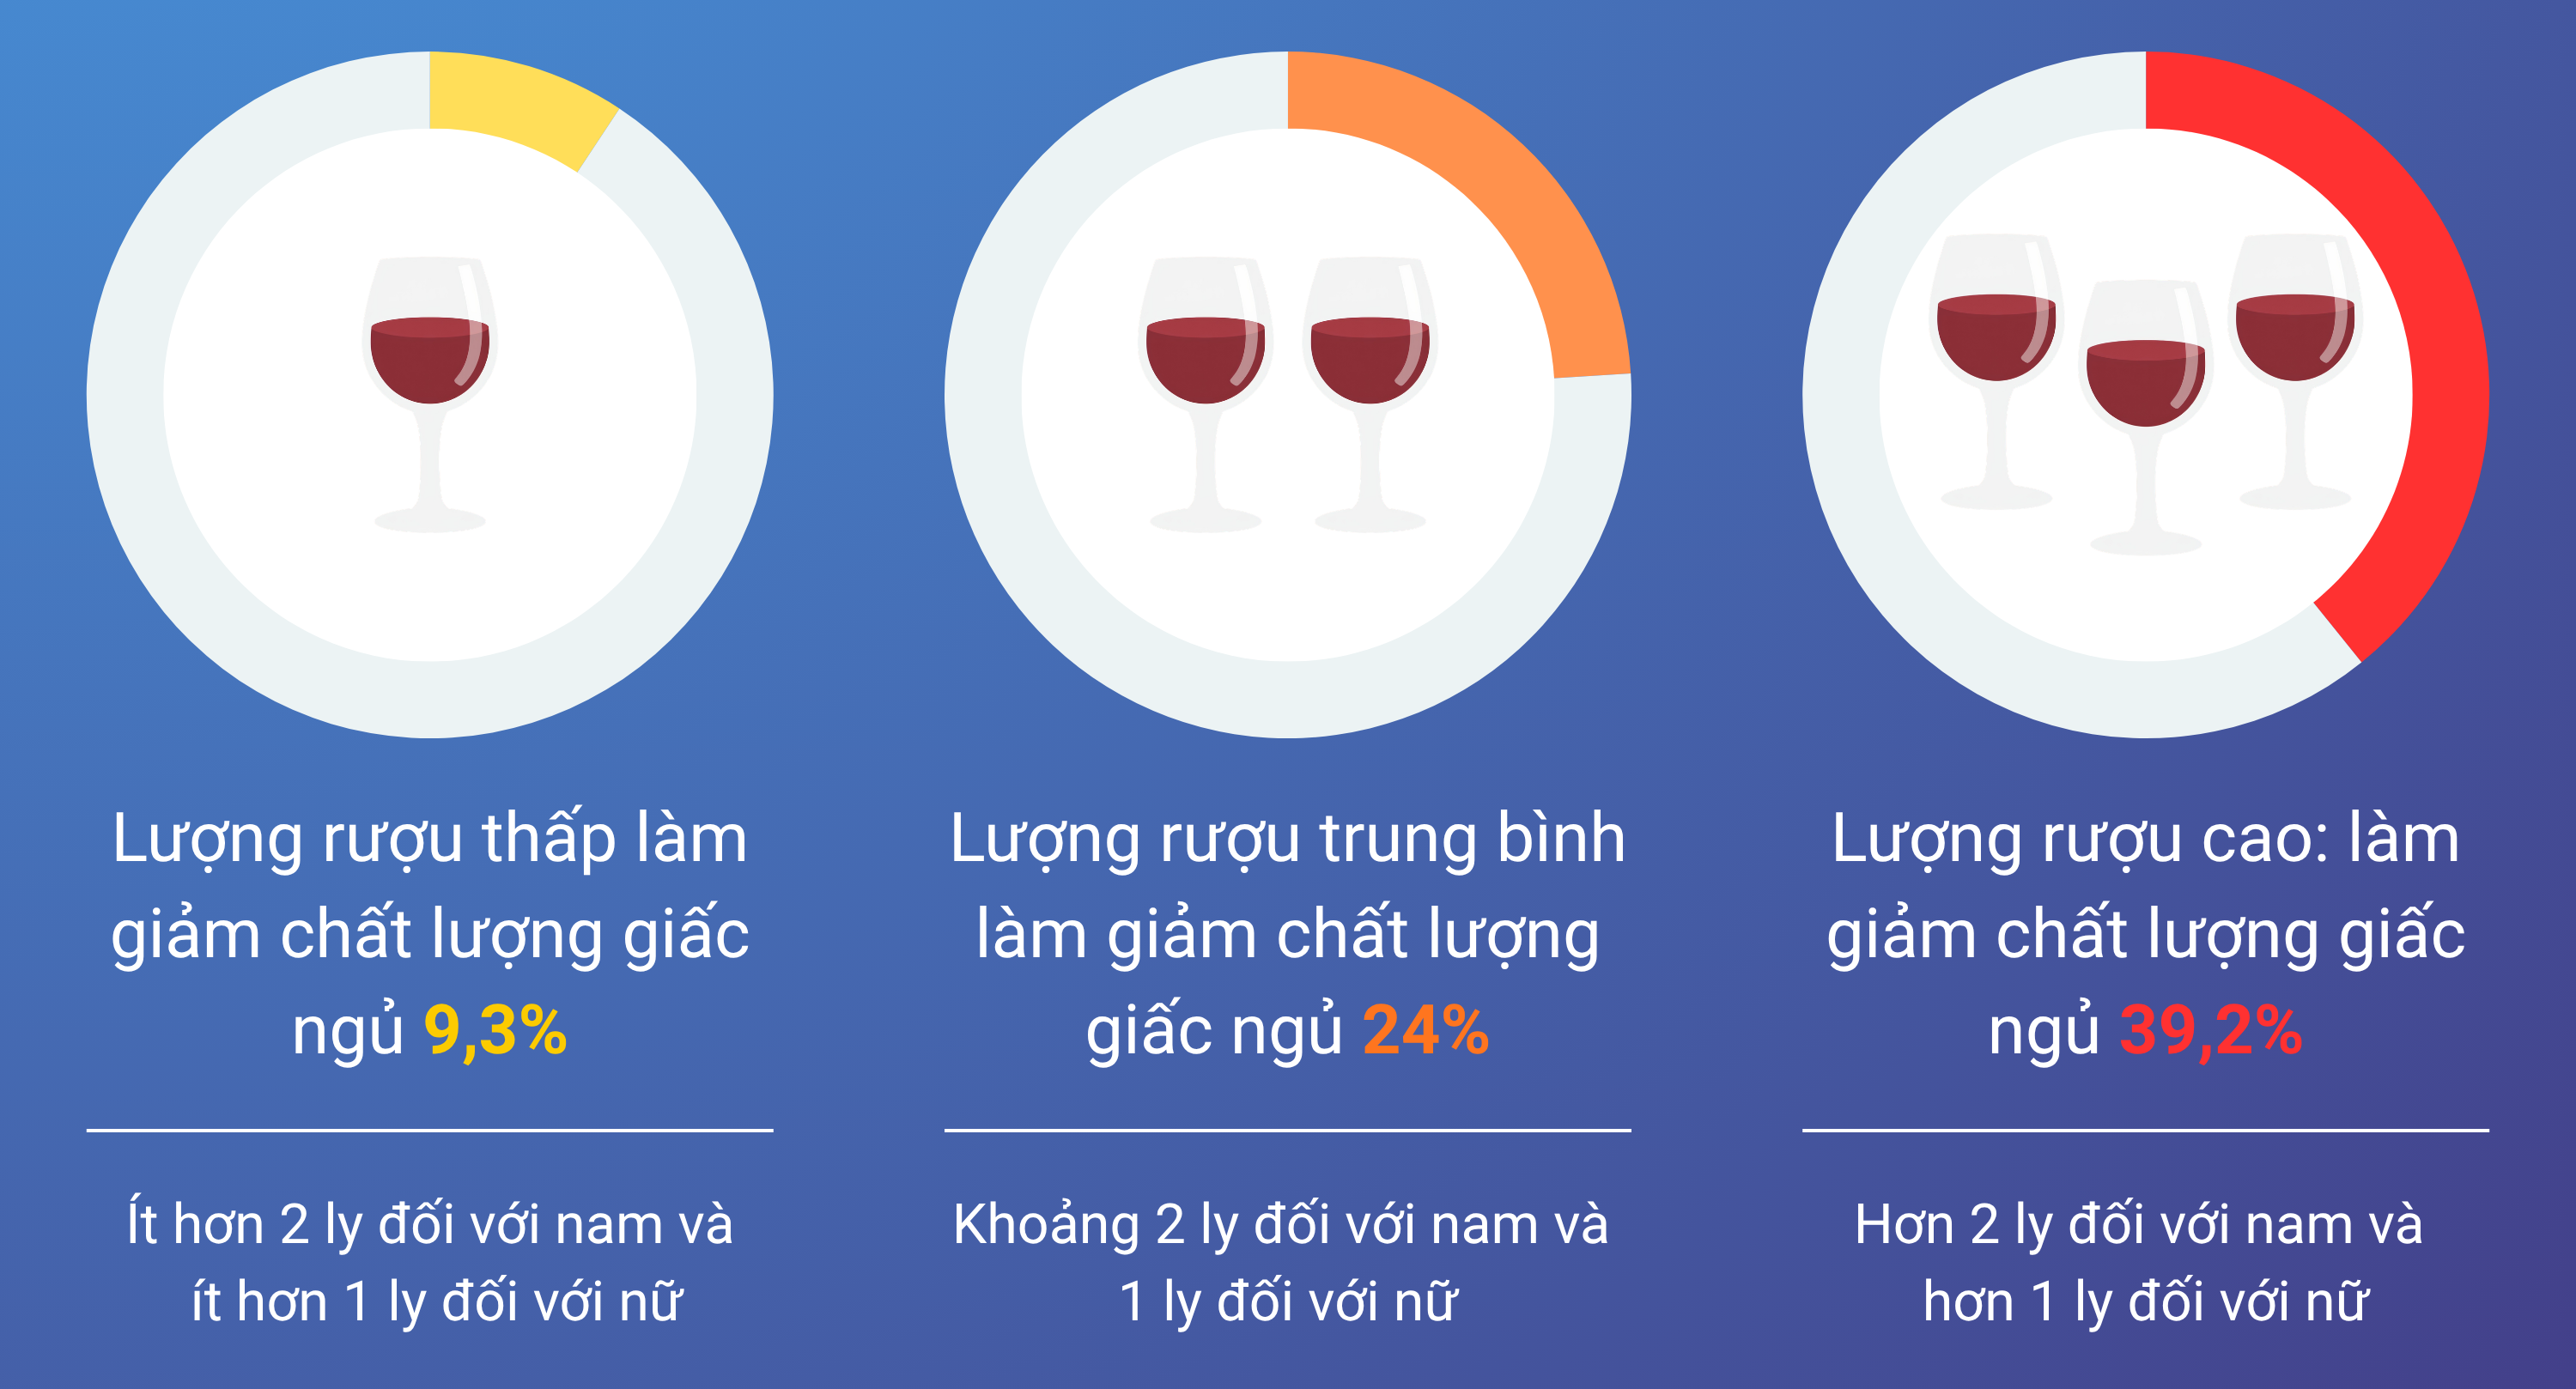
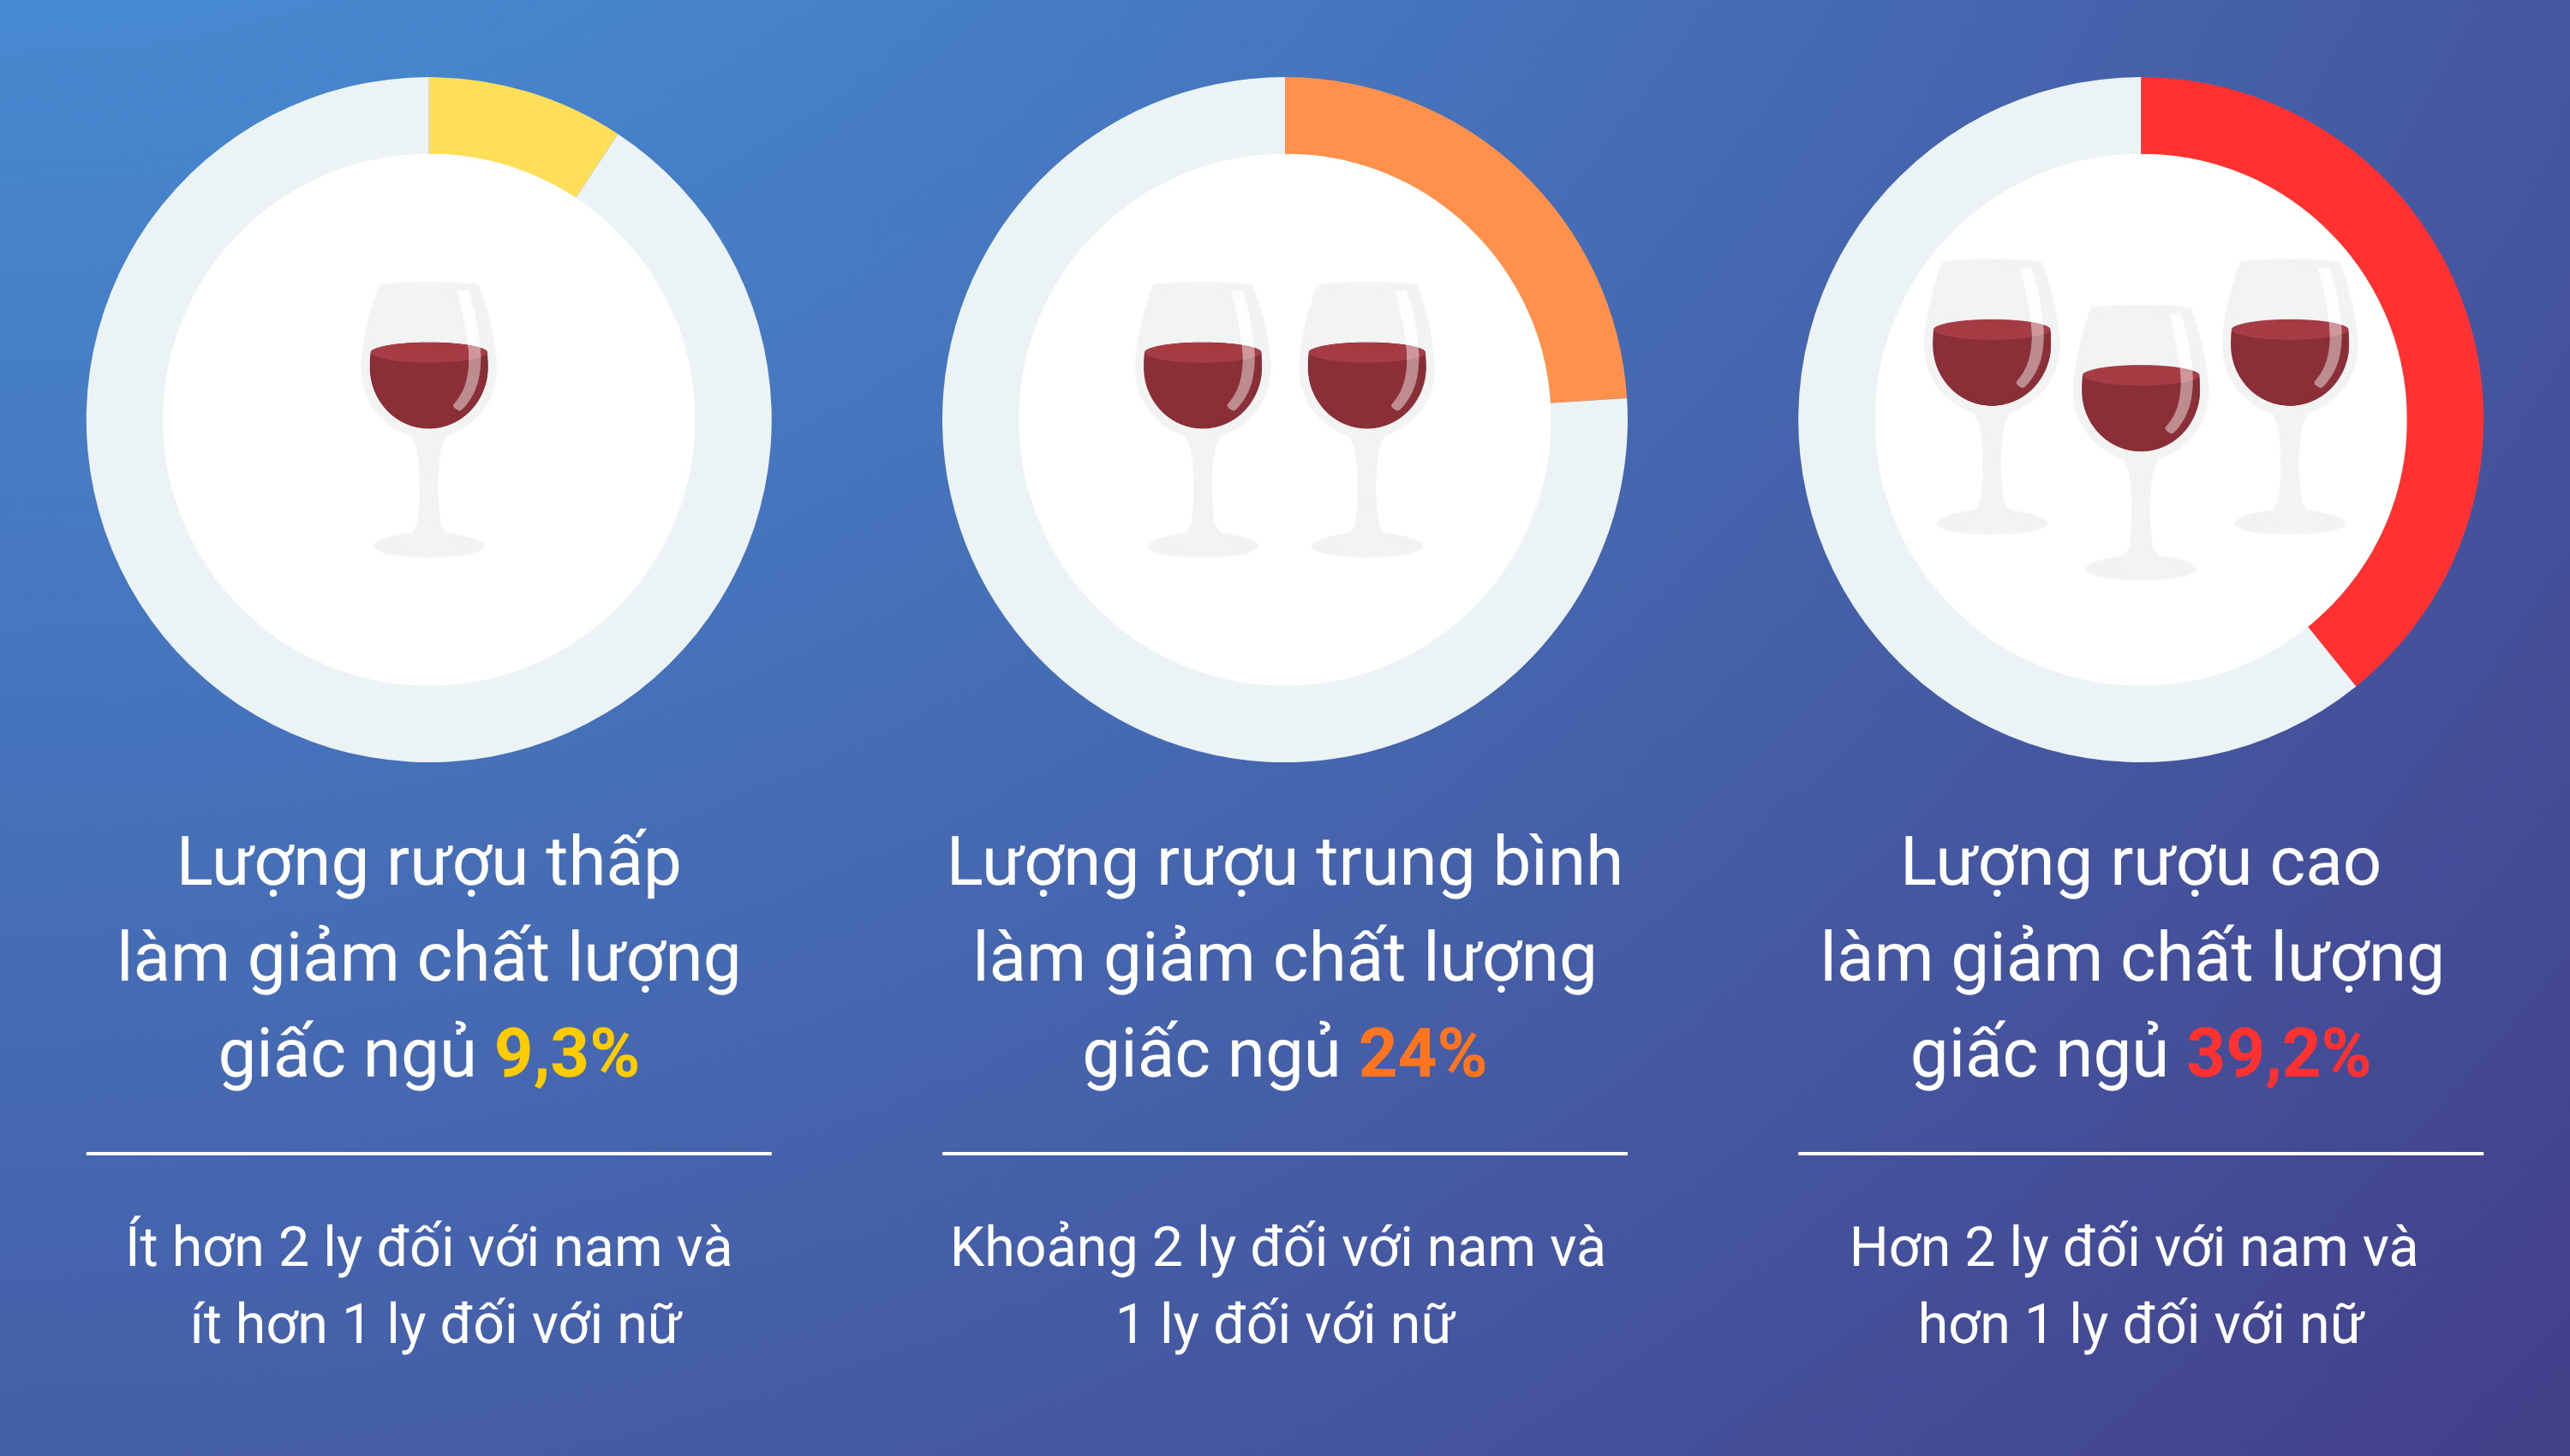
Update NhungThuPhaHoaiGiacNgu

diff --git a/docs/NhungThuPhaHoaiGiacNgu/ThuocNgu.md b/docs/NhungThuPhaHoaiGiacNgu/ThuocNgu.md
@@ -1,0 +1,134 @@
+---
+title: Thuốc ngủ
+parent: Những thứ phá hoại giấc ngủ
+nav_order: 12
+---
+
+# Thuốc ngủ
+
+<details markdown="block">
+  <summary>Mục lục</summary>
+  {: .text-delta }
+1. TOC
+{:toc}
+</details>
+
+---
+
+---
+
+## Thuốc ngủ không tạo ra giấc ngủ tự nhiên
+
+**Không có loại thuốc ngủ nào hiện nay tạo ra được giấc ngủ tự nhiên**. Thay vào đó, chúng thuộc nhóm **thuốc an thần (sedatives)**, hoạt động bằng cách làm tê liệt các vùng vỏ não, tương tự như cơ chế của rượu. Nếu so sánh biểu đồ sóng não, giấc ngủ do thuốc ngủ tạo ra sẽ **thiếu hụt các sóng não NREM lớn và sâu**.
+
+---
+
+## Các tác dụng phụ và "Vòng xoáy ác tính"
+
+Sử dụng thuốc ngủ dẫn đến nhiều hệ lụy không mong muốn:
+- **Tác dụng phụ ban ngày:** Gây ra tình trạng lờ đờ, hay quên vào ngày hôm sau, phản ứng chậm và thậm chí là thực hiện các hành động trong đêm mà không có ý thức (như mộng du).
+- **Vòng xoáy cà phê - thuốc ngủ:** Tình trạng lờ đờ ban ngày khiến người dùng tiêu thụ nhiều caffeine hơn để tỉnh táo. Chính lượng caffeine này lại gây khó ngủ vào ban đêm, dẫn đến việc phải tăng liều thuốc ngủ, tạo thành một chu kỳ suy nhược kéo dài.
+
+<figure>
+  <img
+    src="{{ site.baseurl }}\assets\images\positive_feedback_loop_sleeping_pills.png"
+  />
+  <figcaption>"Vòng phản hồi tích cực" thuốc ngủ - cà phê.</figcaption>
+</figure>
+
+---
+
+## Chứng mất ngủ dội ngược (Rebound Insomnia)
+
+Khi một người ngừng sử dụng thuốc ngủ, họ thường phải đối mặt với **chứng mất ngủ dội ngược**, với chất lượng giấc ngủ thậm chí còn tệ hơn cả trước khi bắt đầu dùng thuốc. Điều này xảy ra do não bộ đã thay đổi các thụ thể thần kinh để thích nghi với thuốc ngủ (hiện tượng **lờn thuốc**), dẫn đến sự phụ thuộc về mặt sinh lý.
+
+Đọc thêm:
+1. [How to Handle Rebound Insomnia After Taking Sleeping Medication - The Sleep Reset (Cách xử lý chứng mất ngủ tái phát sau khi dùng thuốc ngủ)](https://www.thesleepreset.com/blog/rebound-insomnia)
+
+
+---
+
+## Lợi ích thực tế thấp hơn so với cảm nhận
+
+Một nghiên cứu phân tích gộp trên 4.500 cá nhân cho thấy một sự thật mâu thuẫn:
+- Người dùng **cảm thấy** mình ngủ nhanh hơn và sâu hơn, nhưng các phép đo khách quan bằng điện não đồ lại cho thấy **không có sự khác biệt đáng kể** về chất lượng giấc ngủ so với giả dược.
+- Thuốc ngủ thực tế chỉ giúp con người đi vào giấc ngủ nhanh hơn từ 10 đến 30 phút, một con số mà các hội đồng y khoa đánh giá là **"ít có tầm quan trọng về mặt lâm sàng"**.
+
+---
+
+## Thuốc ngủ là "Kẻ xóa mờ" ký ức
+
+Thay vì giúp củng cố trí nhớ như giấc ngủ tự nhiên, thuốc ngủ (điển hình là Ambien) có thể gây tác dụng ngược như một "kẻ xóa mờ" ký ức. Thí nghiệm trên động vật cho thấy giấc ngủ do Ambien gây ra **làm yếu hoặc cắt đứt tới 50% các kết nối thần kinh** được hình thành trong quá trình học tập trước đó. Do đó, người sử dụng thuốc ngủ có nguy cơ thức dậy với ít ký ức về ngày hôm trước hơn so với việc ngủ tự nhiên. Điều này gây lo ngại đặc biệt cho trẻ em và thanh thiếu niên, những đối tượng có não bộ vẫn đang trong quá trình hoàn thiện các kết nối thần kinh cho đến tuổi 20. Việc sử dụng thuốc ngủ trong giai đoạn này có thể gây cản trở nghiêm trọng đến quá trình phát triển tự nhiên của não bộ.
+
+<figure>
+  <img
+    src="{{ site.baseurl }}\assets\images\ambien.jpg"
+  />
+  <figcaption>Thuốc ngủ Ambien.</figcaption>
+</figure>
+
+
+Đọc thêm:
+1. [Thuốc Ambien: Công dụng, chỉ định và lưu ý khi dùng - Vinmec](https://www.vinmec.com/vie/bai-viet/thuoc-ambien-cong-dung-chi-dinh-va-luu-y-khi-dung-vi)
+
+---
+
+## Mối liên hệ đáng báo động với nguy cơ tử vong
+
+Nghiên cứu của Tiến sĩ [Daniel Kripke](https://profiles.ucsd.edu/daniel.kripke) chỉ ra rằng những người sử dụng thuốc ngủ có **nguy cơ tử vong cao hơn đáng kể** so với những người không sử dụng. Một phân tích trên hơn 10.000 bệnh nhân sử dụng thuốc ngủ (chủ yếu là Ambien) cho thấy họ có nguy cơ tử vong cao gấp **4,6 lần** trong vòng 2,5 năm so với nhóm đối chứng. Ngay cả những người thỉnh thoảng mới dùng (khoảng 18 viên mỗi năm) vẫn có nguy cơ tử vong cao gấp 3,6 lần. Nguy cơ này tăng dần theo liều lượng, với những người dùng thường xuyên (trên 132 viên mỗi năm) có nguy cơ tử vong cao gấp 5,3 lần.
+
+<figure>
+  <img
+    src="{{ site.baseurl }}\assets\images\bmjopen-2012-January-2-1--F1.large.jpg"
+  />
+  <figcaption>Nguy cơ liên quan đến việc dùng thuốc ngủ (hypnotics) xuất hiện ở mọi nhóm tuổi. Mặc dù nguy cơ tử vong ở nhóm dùng và không dùng thuốc ngủ đều gia tăng  theo tuổi — nhưng tỷ lệ nguy cơ tử vong của người dùng thuốc ngủ so với người không dùng lại cao hơn ở nhóm 18–55 tuổi so với các nhóm lớn tuổi hơn.<br>
+  Nguồn: <a href="https://bmjopen.bmj.com/content/2/1/e000850" target="_blank">Hypnotics' association with mortality or cancer: a matched cohort study - Daniel Kripke</a> 
+  </figcaption>
+</figure>
+
+<figure>
+  <img
+    src="{{ site.baseurl }}\assets\images\Risk_of_death_from_Sleeping_Pills.png"
+  />
+  <figcaption>Nguy cơ tử vong do thuốc ngủ.<br>
+  Nguồn: Why we sleep - Matthew Walker
+  </figcaption>
+</figure>
+
+---
+
+## Các nguyên nhân dẫn đến cái chết
+
+Có nhiều nguyên nhân khiến tỉ lệ tử vong tăng cao ở người dùng thuốc ngủ, bao gồm:
+- **Nhiễm trùng:** Thuốc ngủ có thể không cung cấp các lợi ích phục hồi miễn dịch như giấc ngủ tự nhiên, dẫn đến tỉ lệ nhiễm trùng cao hơn, đặc biệt nguy hiểm đối với người cao tuổi.
+- **Tai nạn giao thông:** Tình trạng lờ đờ, "say thuốc" vào sáng hôm sau khiến người dùng dễ gặp tai nạn xe cộ chết người.
+- **Ngã và chấn thương:** Người già dễ bị ngã vào ban đêm do tác dụng phụ của thuốc, dẫn đến các biến chứng nghiêm trọng.
+- **Bệnh tim mạch:** Sử dụng thuốc ngủ thường xuyên cũng liên quan đến tỉ lệ mắc bệnh tim và đột quỵ cao hơn.
+
+---
+
+## Nguy cơ gây ung thư
+
+Dữ liệu của Tiến sĩ [Daniel Kripke](https://profiles.ucsd.edu/daniel.kripke) cũng chỉ ra mối liên hệ mật thiết giữa thuốc ngủ và bệnh ung thư. Những người dùng thuốc ngủ có khả năng **phát triển ung thư cao hơn từ 30% đến 40%** trong khoảng thời gian 2,5 năm của nghiên cứu. Cụ thể, các loại thuốc cũ hơn như Restoril liên quan đến việc tăng 60% nguy cơ ung thư, trong khi Ambien liều cao làm tăng nguy cơ này lên khoảng 30%. Các thí nghiệm trên động vật do chính các công ty dược thực hiện cũng cho thấy tỉ lệ ung thư tăng vọt ở chuột khi sử dụng các loại thuốc ngủ phổ biến này.
+
+
+
+<figure>
+  <img
+    src="{{ site.baseurl }}\assets\images\restoril.jpg"
+  />
+  <figcaption>Thuốc ngủ Restoril.</figcaption>
+</figure>
+
+Đọc thêm:
+1. [Tác dụng của thuốc Restoril: Điều trị chứng mất ngủ, ngủ không sâu giấc](https://www.vinmec.com/vie/bai-viet/tac-dung-cua-thuoc-restoril-dieu-tri-chung-mat-ngu-ngu-khong-sau-giac-vi)
+
+
+---
+
+## Vấn đề lợi nhuận và sự minh bạch
+
+Mặc dù có những bằng chứng về tác hại, các công ty dược phẩm vẫn thu lợi nhuận khổng lồ, ví dụ như Ambien đã mang về **4 tỷ đô la doanh số** chỉ trong vòng 24 tháng. Giáo sư Matthew Walker lập luận rằng cho đến nay **không có nghiên cứu nào chứng minh thuốc ngủ giúp cứu mạng con người**; trái lại, chúng gây ra những rủi ro sức khỏe không đáng có. Ông kêu gọi sự minh bạch hơn trong giáo dục y tế để bệnh nhân có thể nhận thức đầy đủ các rủi ro và đưa ra lựa chọn sáng suốt trước khi quyết định sử dụng thuốc ngủ.
+
+Đọc thêm:
+1. [Sleeping Pills (Benzodiazepines, Z-drugs, DORAs): What You Need to Know](https://www.benzoinfo.com/sleeping-pills/)

diff --git a/docs/NhungThuPhaHoaiGiacNgu/NhietDo.md b/docs/NhungThuPhaHoaiGiacNgu/NhietDo.md
@@ -1,0 +1,88 @@
+---
+title: Nhiệt độ
+parent: Những thứ phá hoại giấc ngủ
+nav_order: 10
+---
+
+# Nhiệt độ
+
+<details markdown="block">
+  <summary>Mục lục</summary>
+  {: .text-delta }
+1. TOC
+{:toc}
+</details>
+
+---
+
+## Điều kiện tiên quyết để bắt đầu giấc ngủ: Giảm thân nhiệt trung tâm
+
+Nhiệt độ môi trường xung quanh và nhiệt độ cơ thể là yếu tố then chốt nhưng thường bị xem nhẹ trong việc quyết định chất lượng giấc ngủ. Để có thể đi vào giấc ngủ một cách thuận lợi, thân nhiệt trung tâm của cơ thể cần phải **giảm khoảng 1 độ C**. Đây là lý do tại sao chúng ta thường dễ ngủ hơn trong một căn phòng hơi lạnh hơn là một căn phòng quá nóng.
+
+<figure>
+  <img
+    src="{{ site.baseurl }}\assets\images\Core_body_temperature_and_melatonin.png"
+  />
+  <figcaption>Mối quan hệ giữa nhịp sinh học của thân nhiệt trung tâm (đường liền nét) và melatonin (đường chấm nét) ở người có giấc ngủ ngon, thường ngủ từ 23 giờ đến 7 giờ.<br>
+  Nguồn: <a href="https://www.thesleepscientist.com/post/too-hot-to-sleep-night-sweats-menopause-and-heatwaves" target="_blank">Too hot to sleep? Night sweats, menopause and heatwaves - The Sleep Scientist (Trời quá nóng không ngủ được? Đổ mồ hôi ban đêm, mãn kinh và sóng nhiệt) - </a> 
+  </figcaption>
+</figure>
+
+<strong>Thân nhiệt trung tâm (Core body temperature)</strong> là nhiệt độ của các vùng nằm sâu bên trong cơ thể, <strong>phản ánh trực tiếp nhiệt độ của các cơ quan nội tạng và máu</strong>. Nó ảnh hưởng trực tiếp đến tốc độ các phản ứng sinh học, từ chuyển hoá đến hoạt động của enzyme.
+
+Đồng thời, thân nhiệt trung tâm cũng là <strong>cơ sở của cơ chế điều hoà nhiệt</strong>, giúp cơ thể duy trì trạng thái ổn định dù nhiệt độ môi trường bên ngoài thay đổi.
+
+Khác với nhiệt độ da dễ bị tác động bởi môi trường, thân nhiệt trung tâm tương đối ổn định và chỉ dao động trong một khoảng hẹp. Nó thường được <strong>đo tại trực tràng</strong>, là vị trí cho kết quả ổn định và chính xác nhất. Ở con người, trong điều kiện bình thường, thân nhiệt đo tại đây thường nằm trong <strong>khoảng 36,3 – 37,1°C</strong>.
+<figure>
+ <img
+   src="{{ site.baseurl }}\assets\images\COS-cosinuss-bodytemperature-core_shell-EN-XXXX-V01.jpg"
+   width="75%"
+ />
+ <figcaption>Trường nhiệt độ của cơ thể người. Phần lõi cơ thể có nhiệt độ gần như không đổi, trong khi nhiệt độ của lớp da chịu ảnh hưởng bởi các yếu tố bên ngoài và bên trong.<br>Nguồn: <a href="https://www.cosinuss.com/en/measured-data/vital-signs/body-temperature/" target="_blank">Body temperature  - Cosinuss</a></figcaption>
+</figure>
+
+---
+
+## Cơ chế điều khiển của não bộ
+
+**Vùng dưới đồi (hypothalamus)** trong não chứa các tế bào nhạy cảm với nhiệt độ. Khi thân nhiệt trung tâm giảm xuống vào buổi tối, các tế bào này sẽ gửi tín hiệu đến **nhân trên chéo thị giác (SCN)**, thông báo cho não bộ kích hoạt sự gia tăng **melatonin**. Như vậy, sự giải phóng melatonin không chỉ do ánh sáng giảm đi chỉ dẫn mà còn do sự sụt giảm nhiệt độ cơ thể phối hợp nhịp nhàng với chu kỳ mặt trời lặn.
+
+---
+
+## Đôi bàn tay, bàn chân và đầu: Những bộ tản nhiệt của cơ thể
+
+Cơ thể chúng ta chủ động tản nhiệt thông qua bề mặt da, đặc biệt là ở ba khu vực: **tay, chân và đầu**. Những vùng này chứa mạng lưới mạch máu phong phú (gọi là các mao mạch nối động mạch - tĩnh mạch, *arteriovenous anastomoses - AVA*) nằm sát bề mặt da, hoạt động như những thiết bị tản nhiệt hiệu quả. 
+- Việc làm ấm tay và chân sẽ khiến mạch máu giãn ra, giúp dẫn nhiệt từ bên trong cơ thể ra bề mặt da và thoát ra ngoài, từ đó giảm thân nhiệt trung tâm.
+- Hiện tượng trẻ em thò chân tay ra ngoài chăn khi ngủ thực chất là một phản ứng sinh học tự động để làm mát cơ thể.
+
+<figure>
+  <img
+    src="{{ site.baseurl }}\assets\images\anastomosis_arteriovenosa_simplex.jpg"
+  />
+  <figcaption>Mao mạch nối động mạch - tĩnh mạch (arteriovenous anastomoses - AVA).<br>
+  Các thành phần khác: Tiểu động mạch (Arteriole), Tiểu tĩnh mạch (Venule), Mạng mao mạch (Capillary bed).<br>
+  Nguồn: <a href="https://medical-dictionary.thefreedictionary.com/_/viewer.aspx?path=dorland&name=anastomosis_arteriovenosa-simplex.jpg" target="_blank">Arteriovenous anastomosis - TheFreeDictionary</a> 
+  </figcaption>
+</figure>
+
+---
+
+## Tác động của môi trường hiện đại
+
+Con người hiện đại đã tách biệt mình khỏi chu kỳ nhiệt độ tự nhiên thông qua các hệ thống sưởi và điều hòa nhiệt độ trung tâm. Việc duy trì nhiệt độ phòng không đổi khiến não bộ không nhận được tín hiệu làm mát cần thiết để giải phóng melatonin đúng lúc. 
+- Nhiệt độ phòng lý tưởng cho giấc ngủ của hầu hết mọi người là khoảng **18,3 độ C**. Tuy nhiên, nhiệt độ phòng để đạt được giấc ngủ ngon của mỗi người sẽ tuỳ thuộc vào sinh lý, giới tính và độ tuổi.
+- Đặt nhiệt độ phòng quá cao thường là nguyên nhân gây ra chứng khó ngủ hoặc mất ngủ do cơ thể không thể tản nhiệt hiệu quả.
+
+---
+
+## Thí nghiệm về "Bộ đồ ngủ nhiệt"
+
+Các nhà khoa học đã thực hiện thí nghiệm sử dụng một bộ đồ có thể điều chỉnh nhiệt độ bề mặt da. Kết quả cho thấy:
+- Bằng cách làm ấm nhẹ đôi bàn tay và bàn chân để kéo nhiệt ra khỏi cơ thể, những người trẻ khỏe mạnh có thể ngủ nhanh hơn **20%**.
+- Ở những người lớn tuổi và bệnh nhân mất ngủ, hiệu quả còn ấn tượng hơn khi họ ngủ nhanh hơn **25%** và giảm đáng kể khả năng bị thức giấc vào nửa đêm (từ 58% xuống còn 4%).
+
+---
+
+## Nghịch lý của việc tắm nước nóng trước khi ngủ
+
+Nhiều người cảm thấy tắm nước nóng giúp dễ ngủ, nhưng lý do thực tế hoàn toàn ngược lại với suy nghĩ thông thường. Bạn dễ ngủ hơn không phải vì cơ thể được sưởi ấm, mà vì nước nóng đưa máu lên bề mặt da, tạo ra vẻ ngoài đỏ bừng. Khi bạn bước ra khỏi bồn tắm, các mạch máu này sẽ tản nhiệt ra môi trường cực nhanh, khiến **thân nhiệt trung tâm sụt giảm mạnh**. Chính sự sụt giảm nhiệt độ đột ngột này là tín hiệu báo cho não bộ rằng đã đến giờ đi ngủ, đồng thời giúp tăng lượng ngủ NREM sâu thêm **10-15%**.

diff --git a/docs/NhungThuPhaHoaiGiacNgu/DongHoBaoThuc.md b/docs/NhungThuPhaHoaiGiacNgu/DongHoBaoThuc.md
@@ -1,0 +1,56 @@
+---
+title: Đồng hồ báo thức
+parent: Những thứ phá hoại giấc ngủ
+nav_order: 11
+---
+
+# Đồng hồ báo thức
+
+<details markdown="block">
+  <summary>Mục lục</summary>
+  {: .text-delta }
+1. TOC
+{:toc}
+</details>
+
+---
+
+## Lịch sử của việc cưỡng ép thức dậy
+
+Sự ra đời của kỷ nguyên công nghiệp đã mang đến một thách thức: làm thế nào để đảm bảo một lực lượng lao động khổng lồ có mặt cùng lúc tại các nhà máy. Giải pháp ban đầu là tiếng còi nhà máy - phiên bản sơ khai và ồn ào nhất của đồng hồ báo thức - nhằm buộc mọi người phải thức dậy đồng loạt. Sau này, công cụ xâm lấn này đã tiến sâu vào phòng ngủ của chúng ta dưới dạng đồng hồ báo thức hiện đại.
+
+---
+
+## Tác động sinh lý của đồng hồ báo thức
+
+**Con người là loài duy nhất cố tình chấm dứt giấc ngủ một cách nhân tạo và sớm hơn nhu cầu sinh học**. Khi bị đánh thức đột ngột bởi tiếng báo thức, cơ thể phải chịu đựng những cú sốc sinh lý tức thì:
+- **Huyết áp tăng vọt:** Một sự gia tăng đột ngột của áp lực máu trong mạch.
+- **Nhịp tim tăng tốc:** Trái tim bị ép phải đập nhanh hơn chỉ trong vài giây.
+- **Phản ứng "Chiến-hay-chạy":** Những triệu chứng này được gây ra bởi một đợt bộc phát năng lượng từ hệ thống thần kinh giao cảm, vốn thường chỉ dành cho các tình huống đe dọa tính mạng.
+
+---
+
+## Nguy hiểm từ nút "Tạm dừng" (Snooze)
+
+Tác giả nhấn mạnh rằng nút **"snooze"** là một mối đe dọa lớn đối với hệ tim mạch. Khi sử dụng chức năng này, bạn không chỉ chịu đựng cú sốc từ hệ thần kinh một lần mà là **lặp đi lặp lại nhiều lần** trong một khoảng thời gian ngắn. Việc thực hiện hành vi này ít nhất 5 ngày mỗi tuần trong suốt nhiều năm sẽ dẫn đến sự ngược đãi tích lũy đối với trái tim và hệ thần kinh.
+
+
+<figure>
+  <img
+    src="{{ site.baseurl }}\assets\images\alarm_phone.jpg"
+  />
+</figure>
+
+---
+
+## Lời khuyên cho giấc ngủ lành mạnh
+
+Bạn nên thực hiện theo các khuyến nghị sau nhằm bảo vệ sức khỏe tim mạch:
+- **Duy trì lịch trình nhất quán:** Đi ngủ và thức dậy vào cùng một thời điểm mỗi ngày là cách hiệu quả nhất để cải thiện giấc ngủ, đặc biệt là với người bị mất ngủ.
+- **Loại bỏ chức năng "snooze":** Nếu buộc phải dùng báo thức, hãy tập thói quen thức dậy ngay lập tức từ lần đầu tiên để tránh gây sốc liên tục cho trái tim.
+
+---
+
+## Phản ánh về trạng thái thiếu ngủ hiện đại
+
+Sự tồn tại của những loại đồng hồ báo thức có thiết kế "tra tấn" (như máy hủy tiền hoặc tự động chuyển tiền cho các tổ chức bạn ghét nếu không dậy) cho thấy bộ não hiện đại của chúng ta đang thiếu ngủ trầm trọng đến mức nào. Xã hội hiện đại đã biến giấc ngủ - một giải pháp hoàn hảo của tự nhiên - thành hai vấn đề: (1) thiếu ngủ vào ban đêm và (2) không thể tỉnh táo vào ban ngày.

diff --git a/docs/NhungThuPhaHoaiGiacNgu/Ruou.md b/docs/NhungThuPhaHoaiGiacNgu/Ruou.md
@@ -15,8 +15,6 @@ nav_order: 9
 
 ---
 
----
-
 ## Rượu là chất an thần, không phải công cụ hỗ trợ giấc ngủ
 
 Nhiều người lầm tưởng rượu giúp họ dễ ngủ, nhưng thực tế rượu thuộc nhóm thuốc **an thần**. Nó liên kết với các thụ thể trong não để ngăn các tế bào thần kinh phát xung điện. 
@@ -46,16 +44,24 @@ Khi cơ thể chuyển hóa rượu, nó tạo ra các sản phẩm phụ là al
 
 Đọc thêm:
 1. [Delirium Tremens - Cleveland Clinic](https://my.clevelandclinic.org/health/diseases/25052-delirium-tremens)
- 
+
+<figure>
+  <img
+    src="{{ site.baseurl }}\assets\images\An_alcoholic_man_with_delirium_Wellcome.jpg"
+  />
+  <figcaption>Tác phẩm "L'alcool tue" của họa sĩ người Pháp Eugène Burnand (đầu thế kỷ 20) mô tả một người đàn ông nghiện rượu bị mê sảng do rượu, đang hấp hối, được bao quanh bởi gia đình đầy lo lắng. Dòng chữ "L'alcool tue" có nghĩa là "Rượu giết người" trong tiếng Pháp.<br>
+  Nguồn: <a href="link" target="_blank">caption_of_link</a>
+  </figcaption>
+</figure>
+
 
 ---
 
 ## Tác động tàn phá lên trí nhớ và sự học hỏi
 
-Một nghiên cứu quan trọng với sinh viên đại học đã chỉ ra rằng rượu gây ra tình trạng **mất trí nhớ một phần** đối với những gì đã học.
-- **Thí nghiệm:** Các sinh viên học một nội dung mới vào ngày thứ nhất. Những người uống rượu vào đêm đầu tiên sau khi học bị **quên mất hơn 50% kiến thức sau một tuần**.
-- **Sự thật đáng kinh ngạc:** Ngay cả khi bạn ngủ ngon hai đêm đầu tiên và chỉ uống rượu vào **đêm thứ ba** sau khi học, bạn vẫn bị quên mất 40% kiến thức. 
-- Điều này chứng tỏ não bộ cần nhiều đêm ngủ tự nhiên liên tục để xử lý và củng cố các ký ức mới, rượu có thể "tẩy sạch" những nỗ lực học tập dù nó được tiêu thụ vài ngày sau đó.
+Một nghiên cứu quan trọng với sinh viên đại học đã chỉ ra rằng rượu gây ra tình trạng **mất trí nhớ một phần** đối với những gì đã học: Các sinh viên học một nội dung mới vào ngày thứ nhất. **Những người uống rượu vào đêm đầu tiên sau khi học bị quên mất hơn 50% kiến thức sau một tuần**.
+
+Ngay cả khi bạn ngủ ngon hai đêm đầu tiên và chỉ uống rượu vào **đêm thứ ba** sau khi học, bạn vẫn bị **quên mất 40% kiến thức**. Điều này chứng tỏ não bộ cần nhiều đêm ngủ tự nhiên liên tục để xử lý và củng cố các ký ức mới, rượu có thể "tẩy sạch" những nỗ lực học tập dù nó được tiêu thụ vài ngày sau đó.
 
 ---
 